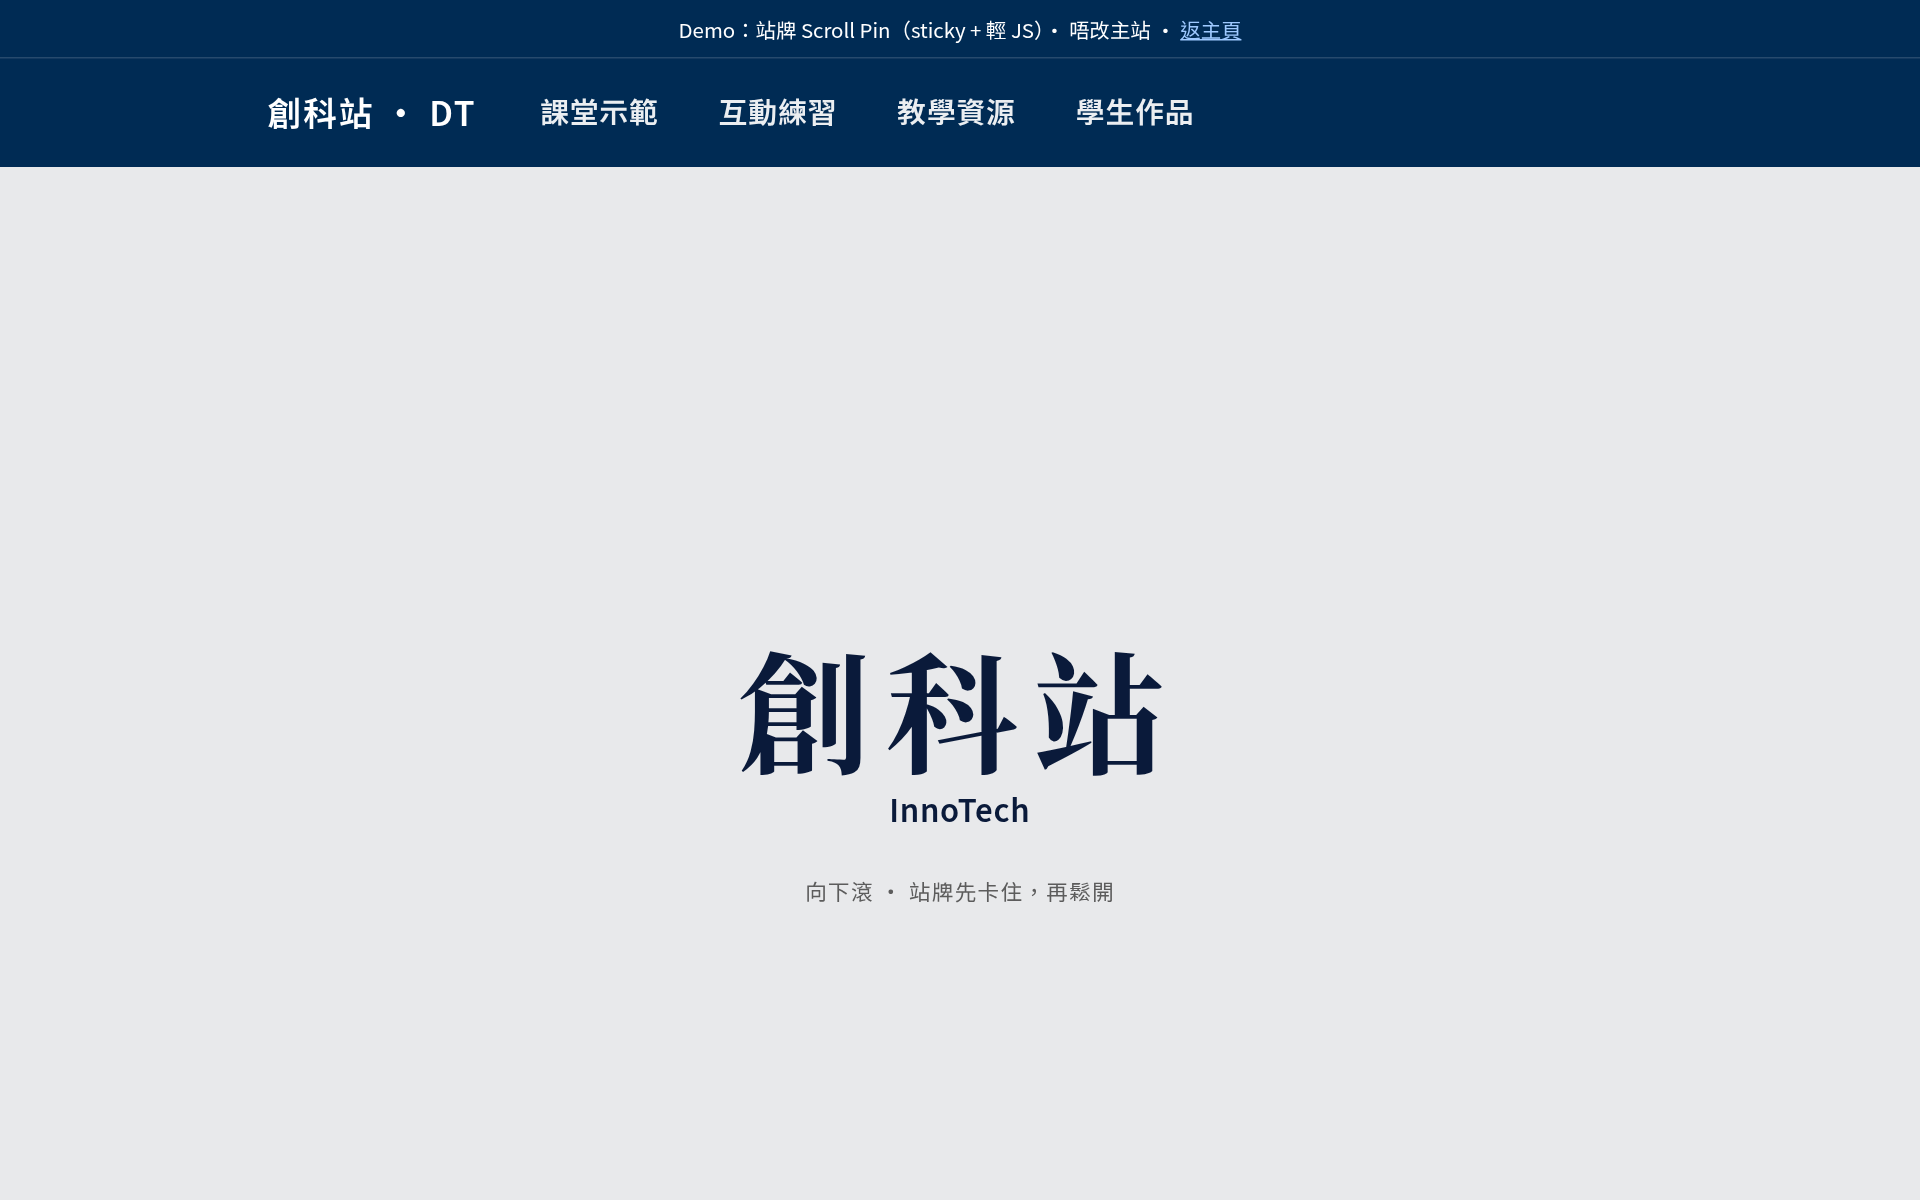
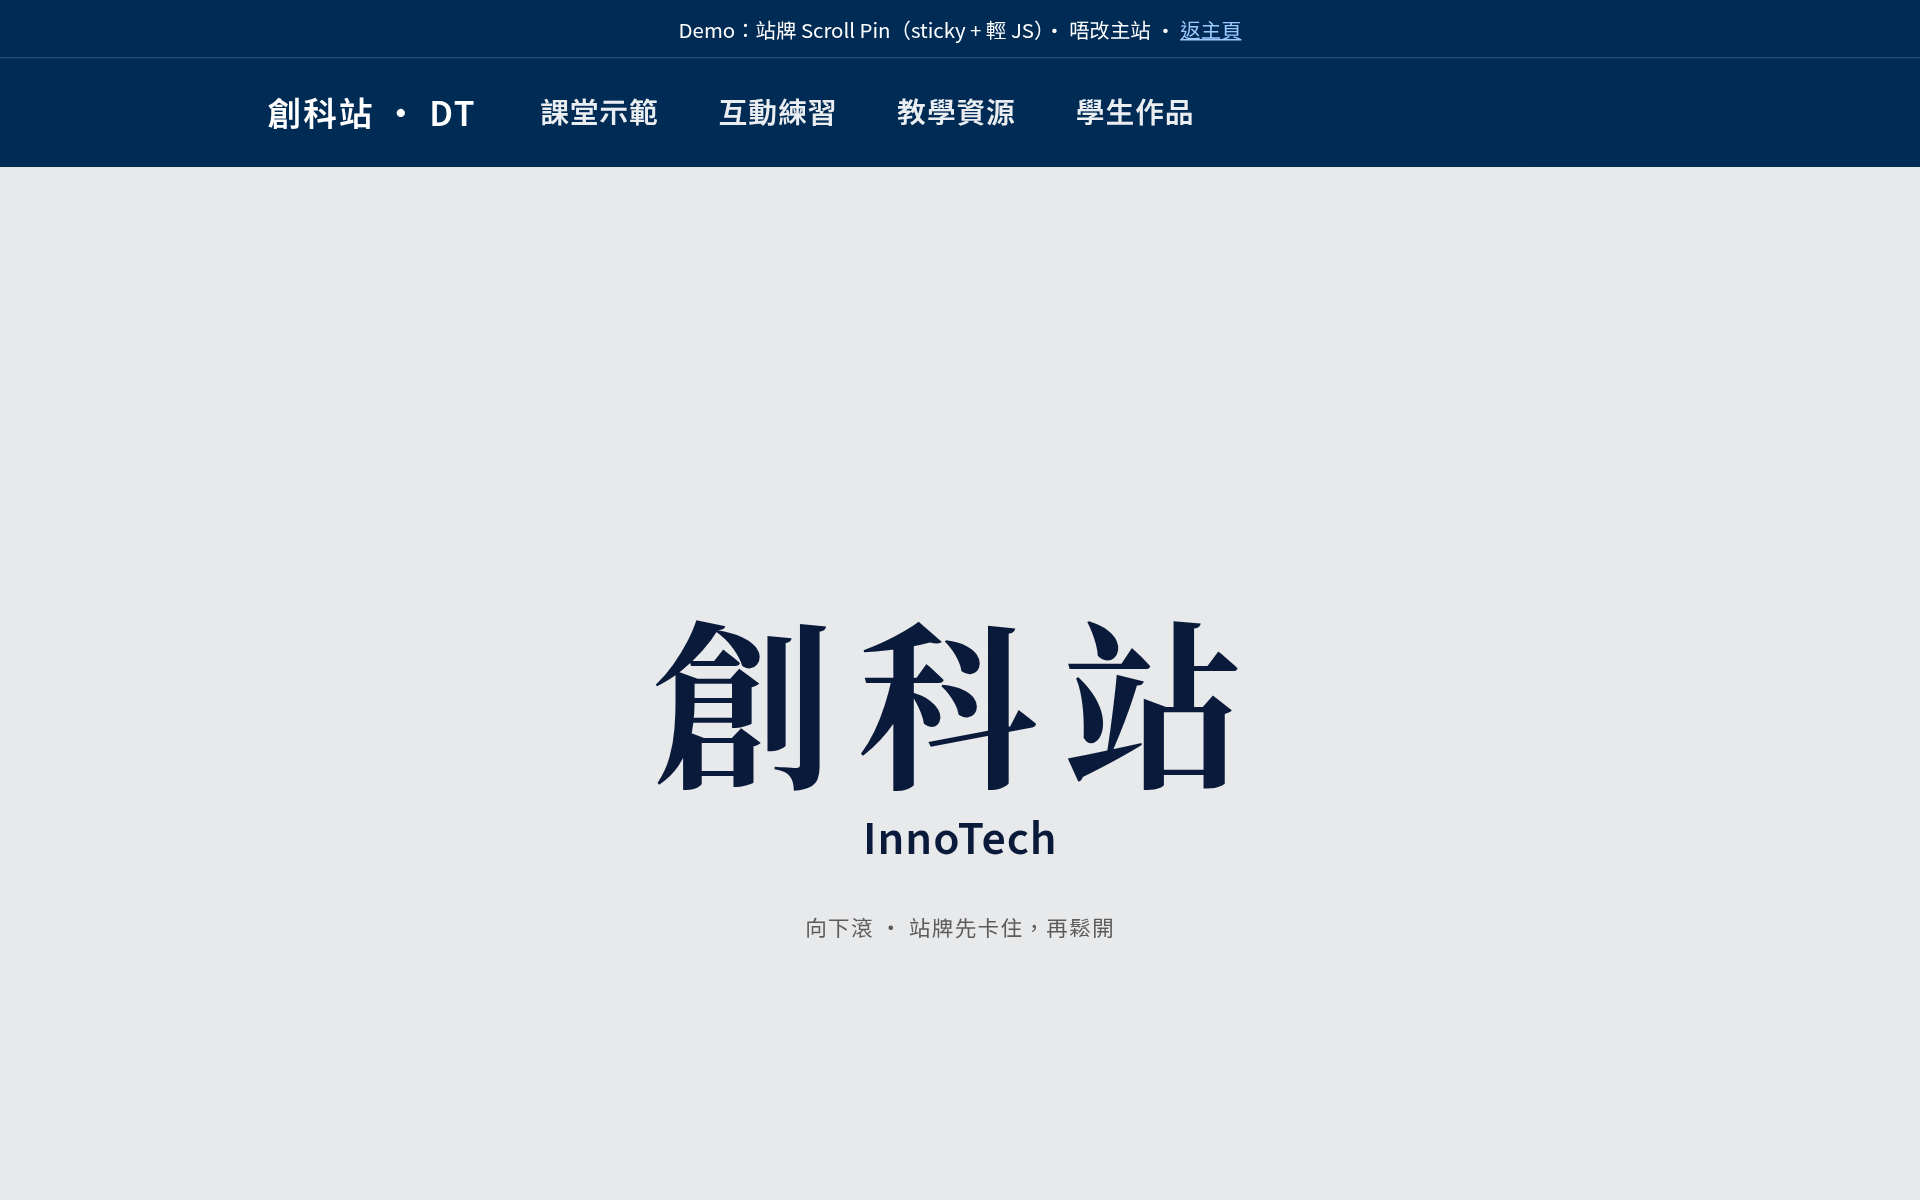
demo: scroll pin 1.1vh, larger station board, restore gantry
Demo-only; live homepage unchanged.

Changed region(s): [[0.3438, 0.5242, 0.6562, 0.8017]]

diff --git a/demo-scroll-pin.html b/demo-scroll-pin.html
@@ -7,7 +7,7 @@
   <link rel="preconnect" href="https://fonts.googleapis.com" />
   <link rel="preconnect" href="https://fonts.gstatic.com" crossorigin />
   <link href="https://fonts.googleapis.com/css2?family=Noto+Sans+TC:wght@400;500;600;700&family=Noto+Serif+TC:wght@700&family=Source+Sans+3:wght@400;600;700&display=swap" rel="stylesheet" />
-  <link rel="stylesheet" href="styles.css?v=0.15-demo-pin" />
+  <link rel="stylesheet" href="styles.css?v=0.15-demo-pin2" />
   <style>
     /* —— lightweight scroll-pin demo (no GSAP) —— */
     .demo-banner {
@@ -25,10 +25,10 @@
     }
     .demo-banner a { color: #9ec9ff; }
 
-    /* Tall scene = how much wheel travel before release (~1.35 viewport) */
+    /* Tall scene = wheel travel before release (~1.1 viewport) */
     .pin-scene {
       position: relative;
-      height: 235vh;
+      height: 210vh;
       margin: 0 calc(-1 * clamp(1.5rem, 4vw, 3rem));
       /* bleed to page edges under .page padding */
     }
@@ -50,6 +50,14 @@
       padding: 0;
       transform-origin: center center;
       will-change: transform, opacity;
+    }
+    .pin-sticky .station-board__zh {
+      font-size: clamp(4.2rem, 14vw, 7.5rem);
+      letter-spacing: 0.14em;
+    }
+    .pin-sticky .station-board__en {
+      margin-top: 0.75rem;
+      font-size: clamp(1.35rem, 3vw, 2rem);
     }
     .pin-hint {
       margin: 1.75rem 0 0;
@@ -143,7 +151,7 @@
     </section>
 
     <div class="pin-after">
-      <p class="pin-after__label">↓ 已鬆開 · 下面係原本 Flag／Gantry（demo 摘要）</p>
+      <p class="pin-after__label">↓ 已鬆開 · Flag + 有用連結</p>
       <section class="junction" aria-label="主目錄">
         <nav class="nav-grid" aria-label="暫定分頁">
           <a class="flag" href="./#classroom" title="Classroom · 課堂示範 · 幹綫 1">
@@ -199,7 +207,53 @@
             </span>
           </a>
         </nav>
-        <p class="junction__note">Demo only · 正式站未改 · 用 sticky 全頁釘住站牌，滾動進度做輕微縮放；唔使 GSAP。</p>
+        <nav class="gantry-wrap" aria-label="有用連結">
+          <a class="gantry" href="./#links" title="Useful Links · 有用連結" aria-label="Useful Links · 有用連結">
+            <div class="gantry__top">
+              <div class="gantry__side gantry__side--left"></div>
+              <span class="gantry__text"><span class="en">Useful Links</span><span class="zh">有用連結</span></span>
+              <div class="gantry__side gantry__side--right">
+        <svg class="gantry__express" xmlns="http://www.w3.org/2000/svg" viewBox="-4.5 0 9 9" width="44" height="44" aria-hidden="true" focusable="false">
+          <path fill="#ff0000" d="M 0 0 L 3.75 0 A 0.75 0.75 0 0 1 4.5 0.75 L 4.5 8.25 A 0.75 0.75 0 0 1 3.75 9 L -3.75 9 A 0.75 0.75 0 0 1 -4.5 8.25 L -4.5 0.75 A 0.75 0.75 0 0 1 -3.75 0 Z"/>
+          <path fill="#ffffff" d="M 0 0.25 L -3.75 0.25 A 0.5 0.5 0 0 0 -4.25 0.75 L -4.25 8.25 A 0.5 0.5 0 0 0 -3.75 8.75 L 3.75 8.75 A 0.5 0.5 0 0 0 4.25 8.25 L 4.25 0.75 A 0.5 0.5 0 0 0 3.75 0.25 Z"/>
+          <path fill="#ff0000" d="M 0.25 1.25 L 0.75 1.25 L 0.972 2.75 L 0.25 2.75 Z"/>
+          <path fill="#ff0000" d="M -0.25 1.25 L -0.25 2.75 L -0.972 2.75 L -0.75 1.25 Z"/>
+          <path fill="#ff0000" d="M 0 3.25 L 3.5 3.25 L 3.5 3.75 L 3 3.75 A 0.25 0.25 0 0 0 2.75 4 L 2.75 4.75 L 2.25 4.75 L 2.05 3.94 A 0.25 0.25 0 0 0 1.8 3.75 L -1.8 3.75 A 0.25 0.25 0 0 0 -2.05 3.94 L -2.25 4.75 L -2.75 4.75 L -2.75 4 A 0.25 0.25 0 0 0 -3 3.75 L -3.5 3.75 L -3.5 3.25 Z"/>
+          <path fill="#ff0000" d="M 0.25 4.25 L 1.194 4.25 L 1.5 8 L 0.25 8 Z"/>
+          <path fill="#ff0000" d="M -0.25 4.25 L -0.25 8 L -1.5 8 L -1.194 4.25 Z"/>
+        </svg>
+              </div>
+            </div>
+            <div class="gantry__bottom">
+              <hr class="gantry__divider" />
+              <div class="gantry__lanes">
+            <span class="gantry__lane">
+              <svg class="gantry__arrow" xmlns="http://www.w3.org/2000/svg" viewBox="-9 0 18 8" width="88" height="39" aria-hidden="true" focusable="false"><path fill="#ffffff" d="M0 0 L3 0 L3 4 L9 4 L0 8 L-9 4 L-3 4 L-3 0 Z"/></svg>
+              <span class="gantry__shield" aria-label="幹綫 1" role="img">
+                <svg class="gantry__shield-shape" xmlns="http://www.w3.org/2000/svg" viewBox="-4.5 0 9 9" width="32" height="32" aria-hidden="true" focusable="false"><path fill="#E9B500" stroke="none" d="M-4.5 0 H4.5 V3 A6 6 0 0 1 0 9 A6 6 0 0 1 -4.5 3 Z"/></svg>
+                <span class="num">1</span>
+              </span>
+            </span>
+            <span class="gantry__lane">
+              <svg class="gantry__arrow" xmlns="http://www.w3.org/2000/svg" viewBox="-9 0 18 8" width="88" height="39" aria-hidden="true" focusable="false"><path fill="#ffffff" d="M0 0 L3 0 L3 4 L9 4 L0 8 L-9 4 L-3 4 L-3 0 Z"/></svg>
+              <span class="gantry__shield" aria-label="幹綫 1" role="img">
+                <svg class="gantry__shield-shape" xmlns="http://www.w3.org/2000/svg" viewBox="-4.5 0 9 9" width="32" height="32" aria-hidden="true" focusable="false"><path fill="#E9B500" stroke="none" d="M-4.5 0 H4.5 V3 A6 6 0 0 1 0 9 A6 6 0 0 1 -4.5 3 Z"/></svg>
+                <span class="num">1</span>
+              </span>
+            </span>
+            <span class="gantry__lane">
+              <svg class="gantry__arrow" xmlns="http://www.w3.org/2000/svg" viewBox="-9 0 18 8" width="88" height="39" aria-hidden="true" focusable="false"><path fill="#ffffff" d="M0 0 L3 0 L3 4 L9 4 L0 8 L-9 4 L-3 4 L-3 0 Z"/></svg>
+              <span class="gantry__shield" aria-label="幹綫 1" role="img">
+                <svg class="gantry__shield-shape" xmlns="http://www.w3.org/2000/svg" viewBox="-4.5 0 9 9" width="32" height="32" aria-hidden="true" focusable="false"><path fill="#E9B500" stroke="none" d="M-4.5 0 H4.5 V3 A6 6 0 0 1 0 9 A6 6 0 0 1 -4.5 3 Z"/></svg>
+                <span class="num">1</span>
+              </span>
+            </span>
+              </div>
+            </div>
+          </a>
+        </nav>
+
+        <p class="junction__note">Demo · 1.1 屏 pin · 站牌放大 · 已補有用連結 · 正式站未改。</p>
       </section>
     </div>
 
